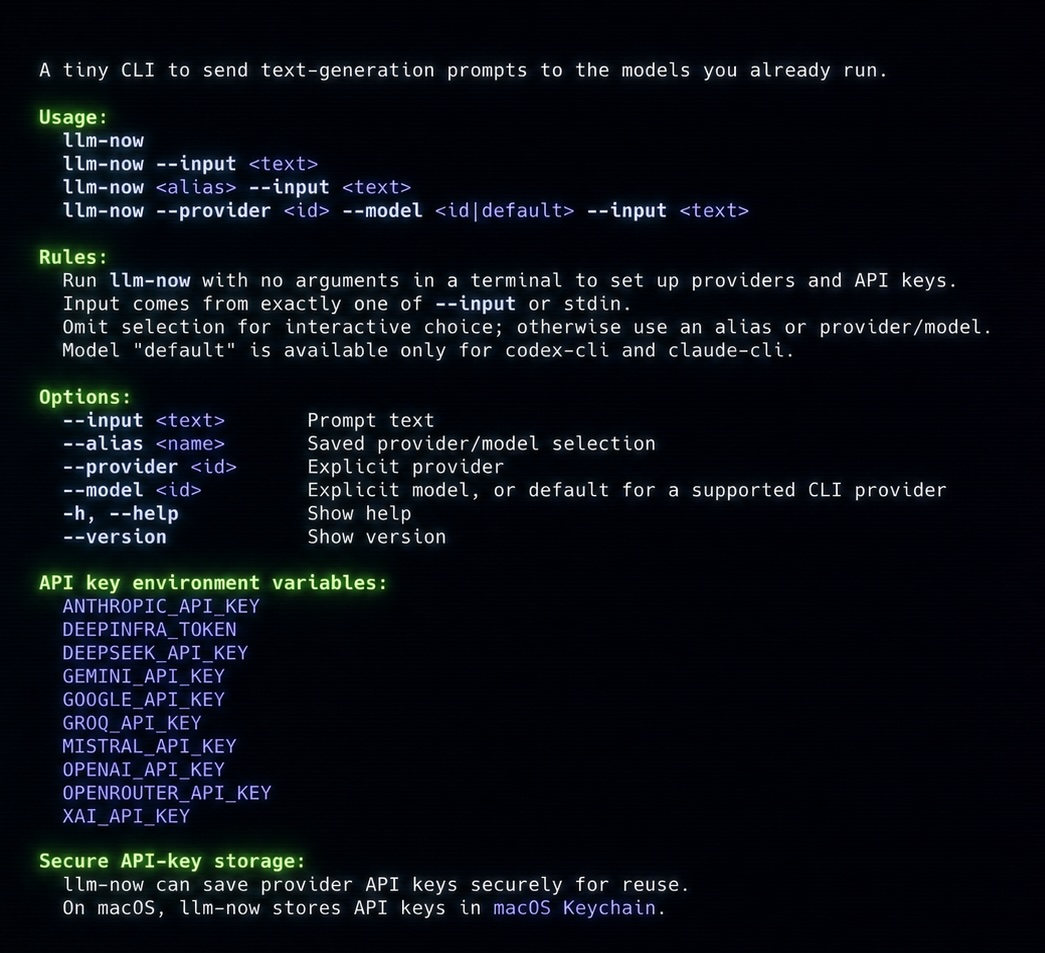
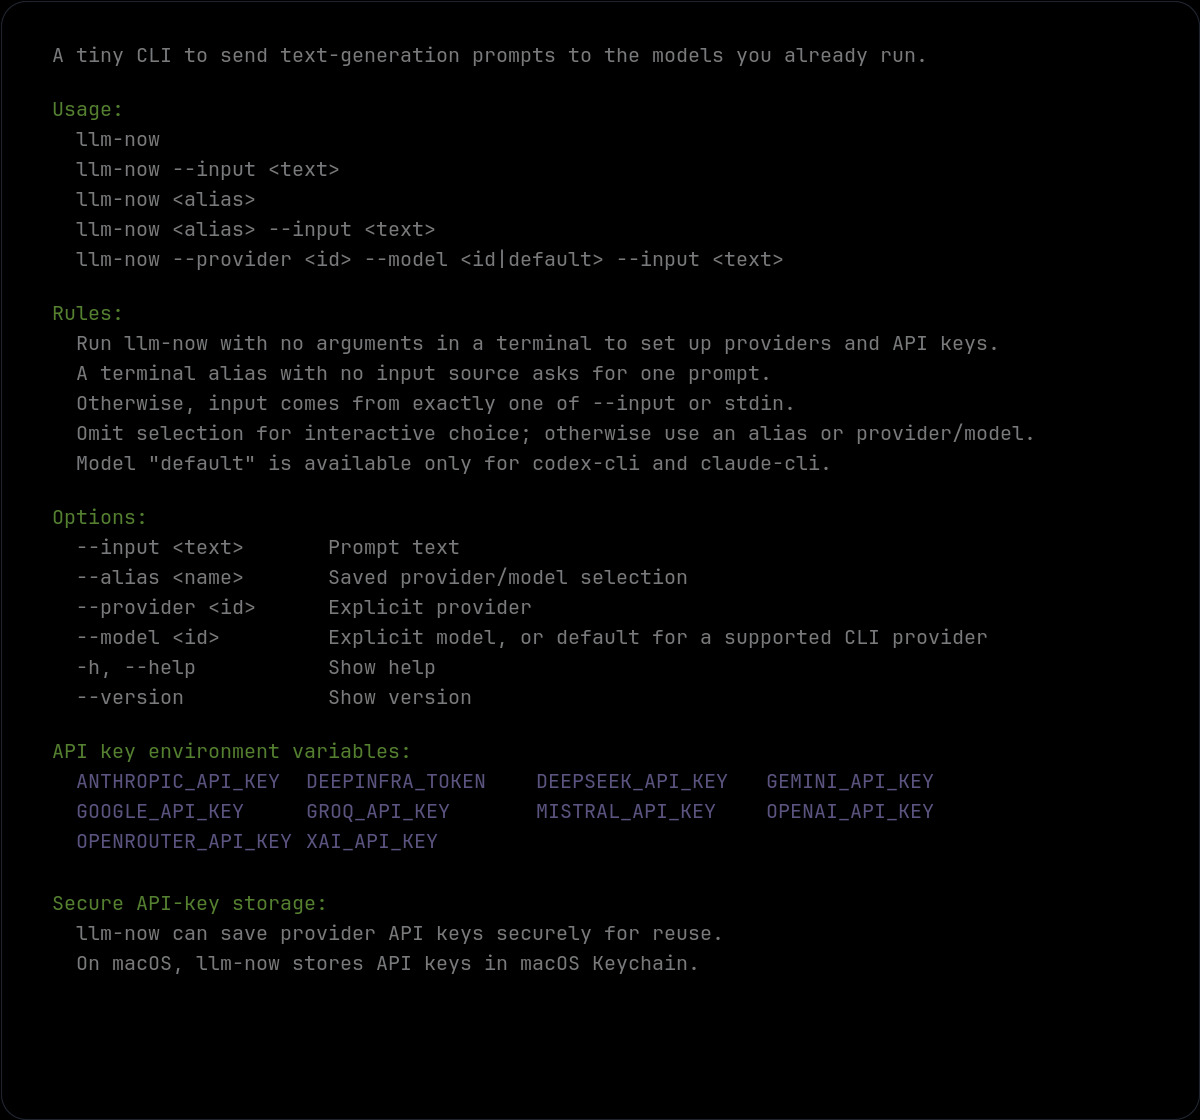
docs(cli): publish alias one-shot input

Changed region(s): [[0.0306, 0.0304, 0.9493, 0.9738], [0.4287, 0.6695, 0.6124, 0.7303], [0.6431, 0.6695, 0.7656, 0.7303]]

diff --git a/tests/runtime-compile-smoke.ts b/tests/runtime-compile-smoke.ts
@@ -69,10 +69,10 @@ try {
       executable: spike,
       args: ["--help"],
       exitCode: 0,
-      stdoutIncludes: "Usage:\n  llm-now\n  llm-now --aliases\n  llm-now --input <text>",
+      stdoutIncludes: "Usage:\n  llm-now\n  llm-now --aliases\n  llm-now --input <text>\n  llm-now <alias>",
       stdoutLandmarks: [
-        "Usage:\n  llm-now\n  llm-now --aliases\n  llm-now --input <text>",
-        "Rules:\n  Run llm-now with no arguments in a terminal to set up providers and API keys.\n  Input comes from exactly one of --input or stdin.",
+        "Usage:\n  llm-now\n  llm-now --aliases\n  llm-now --input <text>\n  llm-now <alias>",
+        "Rules:\n  Run llm-now with no arguments in a terminal to set up providers and API keys.\n  A terminal alias with no input source asks for one prompt.\n  Otherwise, input comes from exactly one of --input or stdin.",
         "Options:\n  --aliases            List saved aliases\n  --input <text>       Prompt text",
         "API key environment variables:\n  ANTHROPIC_API_KEY",
         "  DEEPINFRA_TOKEN",

diff --git a/src/args.ts b/src/args.ts
@@ -32,12 +32,14 @@ ${heading("Usage:")}
   ${literal("llm-now")}
   ${literal("llm-now")} ${literal("--aliases")}
   ${literal("llm-now")} ${literal("--input")} ${metadata("<text>")}
+  ${literal("llm-now")} ${metadata("<alias>")}
   ${literal("llm-now")} ${metadata("<alias>")} ${literal("--input")} ${metadata("<text>")}
   ${literal("llm-now")} ${literal("--provider")} ${metadata("<id>")} ${literal("--model")} ${metadata("<id|default>")} ${literal("--input")} ${metadata("<text>")}
 
 ${heading("Rules:")}
   Run ${literal("llm-now")} with no arguments in a terminal to set up providers and API keys.
-  Input comes from exactly one of ${literal("--input")} or stdin.
+  A terminal alias with no input source asks for one prompt.
+  Otherwise, input comes from exactly one of ${literal("--input")} or stdin.
   Omit selection for interactive choice; otherwise use an alias or provider/model.
   Model "default" is available only for codex-cli and claude-cli.
 

diff --git a/tests/args.test.ts b/tests/args.test.ts
@@ -21,12 +21,14 @@ Usage:
   llm-now
   llm-now --aliases
   llm-now --input <text>
+  llm-now <alias>
   llm-now <alias> --input <text>
   llm-now --provider <id> --model <id|default> --input <text>
 
 Rules:
   Run llm-now with no arguments in a terminal to set up providers and API keys.
-  Input comes from exactly one of --input or stdin.
+  A terminal alias with no input source asks for one prompt.
+  Otherwise, input comes from exactly one of --input or stdin.
   Omit selection for interactive choice; otherwise use an alias or provider/model.
   Model "default" is available only for codex-cli and claude-cli.
 

diff --git a/README.md b/README.md
@@ -60,6 +60,7 @@ If you have saved aliases, an interactive call offers those first. Choose “Sel
 Use a saved global alias:
 
 ```bash
+llm-now daily
 llm-now daily --input "Summarize this idea"
 printf 'Explain this diff' | llm-now daily
 ```
@@ -86,6 +87,11 @@ stderr. Inventory returns before prompt handling, provider discovery or runtime
 calls, credential access, and alias mutation. The bare word `aliases` remains a
 positional alias and generates normally when that alias is configured.
 
+In a terminal, the alias-only form shows the resolved alias, provider, and model,
+asks for one prompt, generates once, and exits. A delegated model is labeled
+`default model`; a pinned alias shows its model ID. Blank input stays at the
+prompt, while Escape or Ctrl-C cancels.
+
 Alias names are ASCII case-insensitive but spelling-exact: `daily`, `Daily`, and
 `DAILY` select the same alias, while `dailly` does not. Aliases are stored and
 displayed in lowercase. Options may appear before or after the alias, though the alias-first form above is recommended. The explicit
@@ -99,7 +105,7 @@ llm-now --input "Hello" --provider ollama --model llama3
 printf 'Hello' | llm-now --provider claude-cli --model default
 ```
 
-Exactly one prompt source is required: `--input` or stdin. Non-interactive calls require a positional alias, `--alias`, or both `--provider` and `--model`. A second positional argument is never treated as prompt text. Successful generation writes the model response, byte-for-byte, to stdout. Interactive UI and diagnostics use stderr, so the response remains safe to redirect or pipe. After an interactive response, stderr resets terminal styling and adds a clean visual boundary without changing stdout.
+For scripts and non-interactive calls, exactly one prompt source is required: `--input` or stdin. Non-interactive calls require a positional alias, `--alias`, or both `--provider` and `--model`. A second positional argument is never treated as prompt text. Successful generation writes the model response, byte-for-byte, to stdout. Interactive UI and diagnostics use stderr, so the response remains safe to redirect or pipe. After an interactive response, stderr resets terminal styling and adds a clean visual boundary without changing stdout.
 
 ## Aliases and configuration
 

diff --git a/docs/manual-testing.md b/docs/manual-testing.md
@@ -267,6 +267,15 @@ First run an interactive call with no explicit selection. Confirm that the sorte
 
 ```bash
 cd /
+rm -f stdout.txt stderr.txt
+"$BIN" daily >stdout.txt
+```
+
+The terminal must show `Prompt for daily · PROVIDER · MODEL`, using `default model` only when the alias has no pinned model. Submit whitespace first and confirm validation keeps the field open, then enter `Summarize the idea of gravity.`. The command must generate exactly once, exit `0`, and leave `stdout.txt` containing only the response even though stdout was redirected. Repeat the alias-only command with Escape and Ctrl-C; each cancellation must exit `130`, generate nothing, and leave stdout empty.
+
+Then verify deterministic reuse:
+
+```bash
 printf 'Summarize the idea of gravity.' |
   "$BIN" daily >stdout.txt 2>stderr.txt
 ```
@@ -278,7 +287,9 @@ working directory, write only the response to stdout, and skip the alias-save pr
 with `Daily` and `DAILY`; both must resolve the same lowercase `daily` record. A misspelling
 such as `dailly` must fail instead of selecting `daily`. Also
 verify that aliases named `help`, `version`, and `run` work when supplied as bare positional
-names; only `--help` and `--version` select those standalone modes.
+names; only `--help` and `--version` select those standalone modes. Finally, run an explicit
+provider/model selection without `--input` and confirm it retains the usage error instead of
+opening the alias-only prompt.
 
 ### MT-13: List configured aliases
 

diff --git a/.changeset/alias-one-shot-input.md b/.changeset/alias-one-shot-input.md
@@ -1,0 +1,5 @@
+---
+"llm-now": minor
+---
+
+Prompt once for input when a saved alias is invoked interactively without `--input`.
